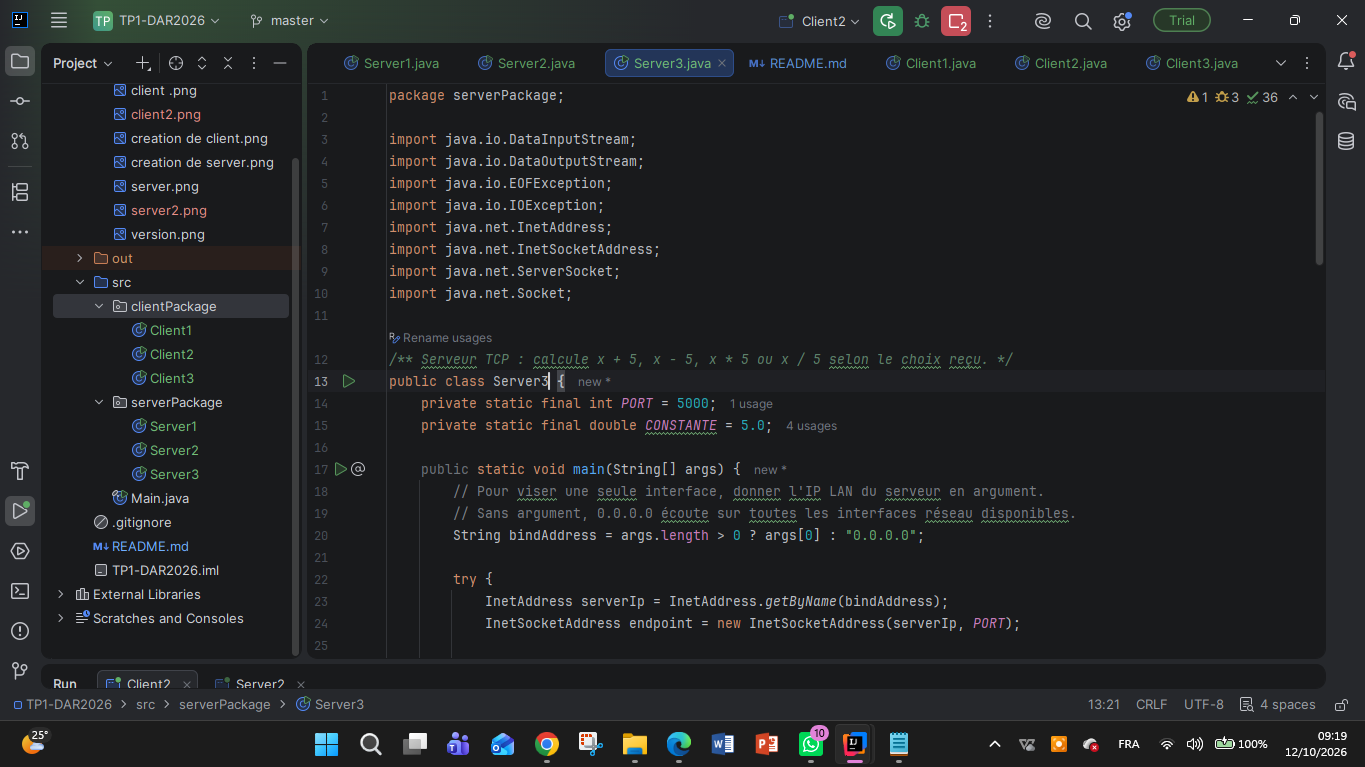
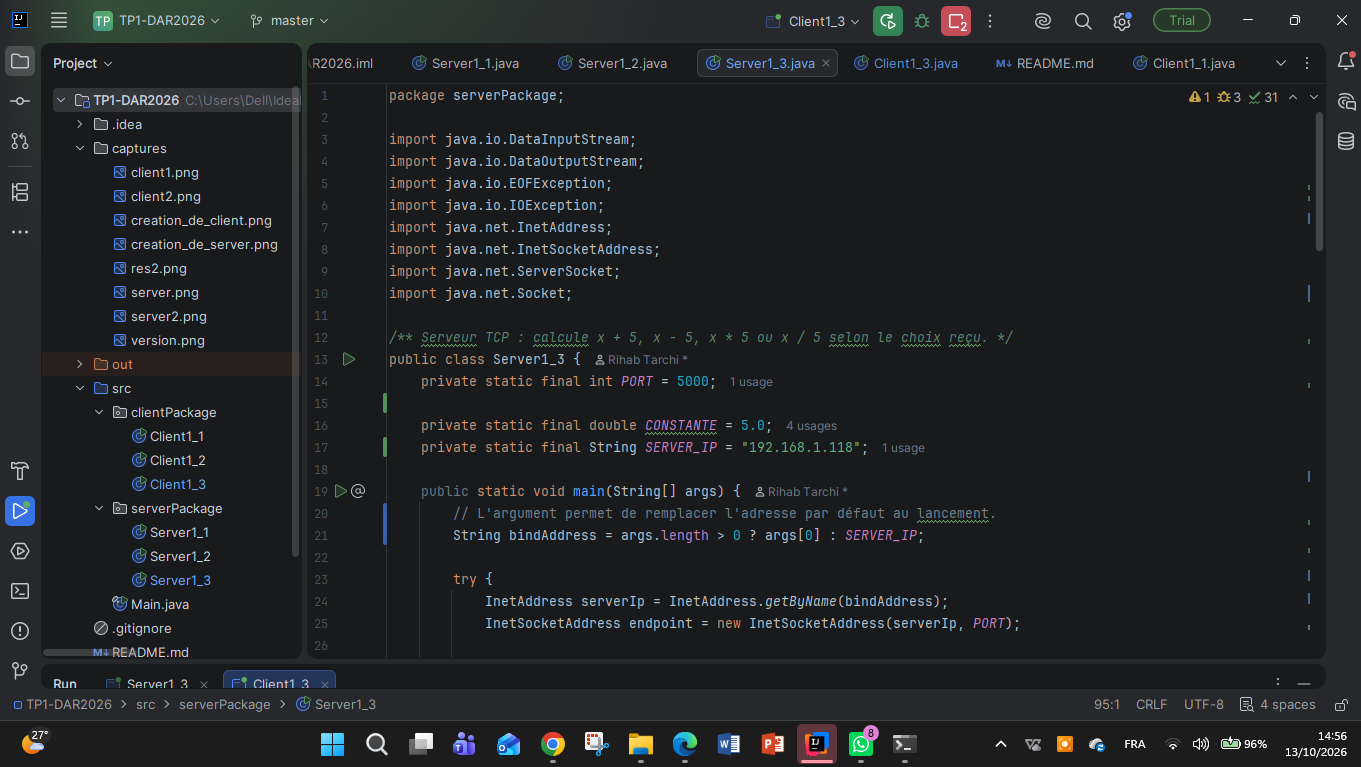
Modification2

diff --git a/src/clientPackage/Client1_3.java b/src/clientPackage/Client1_3.java
@@ -10,12 +10,12 @@ import java.util.Scanner;
 
 /** Client TCP : choisit un service, transmet x et affiche la réponse du serveur. */
 public class Client1_3 {
-    private static final String DEFAULT_HOST = "127.0.0.1";
+    private static final String DEFAULT_HOST = "192.168.1.118";
     private static final int PORT = 5000;
     private static final int TIMEOUT_MS = 5000;
 
     public static void main(String[] args) {
-        // En réseau local, fournir ici l'IPv4 de la machine qui héberge le serveur.
+        // Un argument de lancement peut remplacer l'adresse par défaut.
         String host = args.length > 0 ? args[0] : DEFAULT_HOST;
 
         try {
@@ -26,50 +26,64 @@ public class Client1_3 {
                 socket.connect(endpoint, TIMEOUT_MS);
                 System.out.println("Connecté à " + endpoint);
 
-                try (DataInputStream input = new DataInputStream(socket.getInputStream());
-                     DataOutputStream output = new DataOutputStream(socket.getOutputStream());
+                try (DataInputStream input =
+                             new DataInputStream(socket.getInputStream());
+                     DataOutputStream output =
+                             new DataOutputStream(socket.getOutputStream());
                      Scanner keyboard = new Scanner(System.in)) {
 
                     boolean running = true;
+
                     while (running) {
                         printMenu();
                         int operation = readInt(keyboard, "Votre choix : ");
 
                         if (operation == 0) {
-                            output.writeInt(0); // marqueur d'arrêt convenu avec le serveur
+                            output.writeInt(0);
                             output.flush();
-                            System.out.println("Fin demandée. Fermeture de la connexion.");
+                            System.out.println(
+                                    "Fin demandée. Fermeture de la connexion.");
                             running = false;
+
                         } else if (operation < 1 || operation > 4) {
-                            System.out.println("Choix invalide : sélectionnez 1, 2, 3, 4 ou 0.");
+                            System.out.println(
+                                    "Choix invalide : sélectionnez 1, 2, 3, 4 ou 0.");
+
                         } else {
                             int x = readInt(keyboard, "Saisissez l'entier x : ");
+
                             output.writeInt(operation);
                             output.writeInt(x);
                             output.flush();
 
                             boolean success = input.readBoolean();
+
                             if (success) {
                                 double result = input.readDouble();
-                                System.out.println(formatOperation(operation, x, result));
+                                System.out.println(
+                                        formatOperation(operation, x, result));
                             } else {
-                                System.out.println("Erreur renvoyée par le serveur : "
-                                        + input.readUTF());
+                                System.out.println(
+                                        "Erreur renvoyée par le serveur : "
+                                                + input.readUTF());
                             }
                         }
                     }
                 }
             }
         } catch (IOException e) {
-            System.err.println("Connexion impossible vers " + host + ":" + PORT + ".");
-            System.err.println("Vérifiez que le serveur est lancé, l'adresse IP correcte,"
-                    + " et que le port est autorisé par le pare-feu.");
+            System.err.println(
+                    "Connexion impossible vers " + host + ":" + PORT + ".");
+            System.err.println(
+                    "Vérifiez que le serveur est lancé, que l'adresse IP est correcte "
+                            + "et que le port est autorisé par le pare-feu.");
             System.err.println("Détail : " + e.getMessage());
         }
     }
 
     private static void printMenu() {
-        System.out.println("\n=== CALCULATRICE (opérations avec la constante 5) ===");
+        System.out.println(
+                "\n=== CALCULATRICE (opérations avec la constante 5) ===");
         System.out.println("1. Addition       : x + 5");
         System.out.println("2. Soustraction   : x - 5");
         System.out.println("3. Multiplication : x * 5");
@@ -80,26 +94,42 @@ public class Client1_3 {
     private static int readInt(Scanner keyboard, String prompt) {
         while (true) {
             System.out.print(prompt);
+
             if (keyboard.hasNextInt()) {
                 return keyboard.nextInt();
             }
+
             if (!keyboard.hasNext()) {
                 return 0;
             }
-            System.out.println("Entrée invalide : veuillez saisir un entier.");
+
+            System.out.println(
+                    "Entrée invalide : veuillez saisir un entier.");
             keyboard.next();
         }
     }
 
-    private static String formatOperation(int operation, int x, double result) {
+    private static String formatOperation(
+            int operation, int x, double result) {
         String symbol;
+
         switch (operation) {
-            case 1: symbol = "+"; break;
-            case 2: symbol = "-"; break;
-            case 3: symbol = "×"; break;
-            case 4: symbol = "÷"; break;
-            default: symbol = "?";
+            case 1:
+                symbol = "+";
+                break;
+            case 2:
+                symbol = "-";
+                break;
+            case 3:
+                symbol = "×";
+                break;
+            case 4:
+                symbol = "÷";
+                break;
+            default:
+                symbol = "?";
         }
+
         return x + " " + symbol + " 5 = " + result;
     }
 }

diff --git a/src/serverPackage/Server1_3.java b/src/serverPackage/Server1_3.java
@@ -12,12 +12,13 @@ import java.net.Socket;
 /** Serveur TCP : calcule x + 5, x - 5, x * 5 ou x / 5 selon le choix reçu. */
 public class Server1_3 {
     private static final int PORT = 5000;
+
     private static final double CONSTANTE = 5.0;
+    private static final String SERVER_IP = "192.168.1.118";
 
     public static void main(String[] args) {
-        // Pour viser une seule interface, donner l'IP LAN du serveur en argument.
-        // Sans argument, 0.0.0.0 écoute sur toutes les interfaces réseau disponibles.
-        String bindAddress = args.length > 0 ? args[0] : "0.0.0.0";
+        // L'argument permet de remplacer l'adresse par défaut au lancement.
+        String bindAddress = args.length > 0 ? args[0] : SERVER_IP;
 
         try {
             InetAddress serverIp = InetAddress.getByName(bindAddress);
@@ -29,14 +30,17 @@ public class Server1_3 {
                 System.out.println("En attente d'un client...");
 
                 try (Socket clientSocket = serverSocket.accept();
-                     DataInputStream input = new DataInputStream(clientSocket.getInputStream());
-                     DataOutputStream output = new DataOutputStream(clientSocket.getOutputStream())) {
+                     DataInputStream input =
+                             new DataInputStream(clientSocket.getInputStream());
+                     DataOutputStream output =
+                             new DataOutputStream(clientSocket.getOutputStream())) {
 
                     System.out.println("Client connecté depuis "
                             + clientSocket.getInetAddress().getHostAddress());
 
                     while (true) {
                         int operation = input.readInt();
+
                         if (operation == 0) {
                             System.out.println("Le client a demandé l'arrêt.");
                             break;
@@ -44,6 +48,7 @@ public class Server1_3 {
 
                         int x = input.readInt();
                         double result;
+
                         switch (operation) {
                             case 1:
                                 result = x + CONSTANTE;
@@ -59,7 +64,8 @@ public class Server1_3 {
                                 break;
                             default:
                                 output.writeBoolean(false);
-                                output.writeUTF("Choix d'opération invalide : " + operation);
+                                output.writeUTF(
+                                        "Choix d'opération invalide : " + operation);
                                 output.flush();
                                 continue;
                         }
@@ -67,18 +73,22 @@ public class Server1_3 {
                         output.writeBoolean(true);
                         output.writeDouble(result);
                         output.flush();
+
                         System.out.println("Opération " + operation + " sur x=" + x
                                 + " ; résultat=" + result);
                     }
                 }
+
                 System.out.println("Client déconnecté. Sockets fermés.");
             }
         } catch (EOFException e) {
-            System.err.println("Le client a fermé la connexion sans envoyer le choix 0.");
+            System.err.println(
+                    "Le client a fermé la connexion sans envoyer le choix 0.");
         } catch (IOException e) {
             System.err.println("Erreur serveur/réseau : " + e.getMessage());
-            System.err.println("Vérifiez l'adresse IP, le port et le pare-feu.");
+            System.err.println(
+                    "Vérifiez que 192.168.1.118 est bien l'adresse IP de cette machine, "
+                            + "et vérifiez le port et le pare-feu.");
         }
     }
 }
-

diff --git a/README.md b/README.md
@@ -52,9 +52,9 @@ Le serveur calcule x * 5 et renvoie le résultat.
 ### Connexion entre deux machines
 Configuration de l'adresse IP du serveur.
 ![Test de connexion](captures/server3.png)
+![Test de connexion](captures/server3.1.png)
 ![Test de connexion](captures/server3.2.png)
 ![Test de connexion](captures/server3.3.png)
-![Test de connexion](captures/server3.4.png)
 
 ### Les quatre opérations
 Addition, soustraction, multiplication et division.
